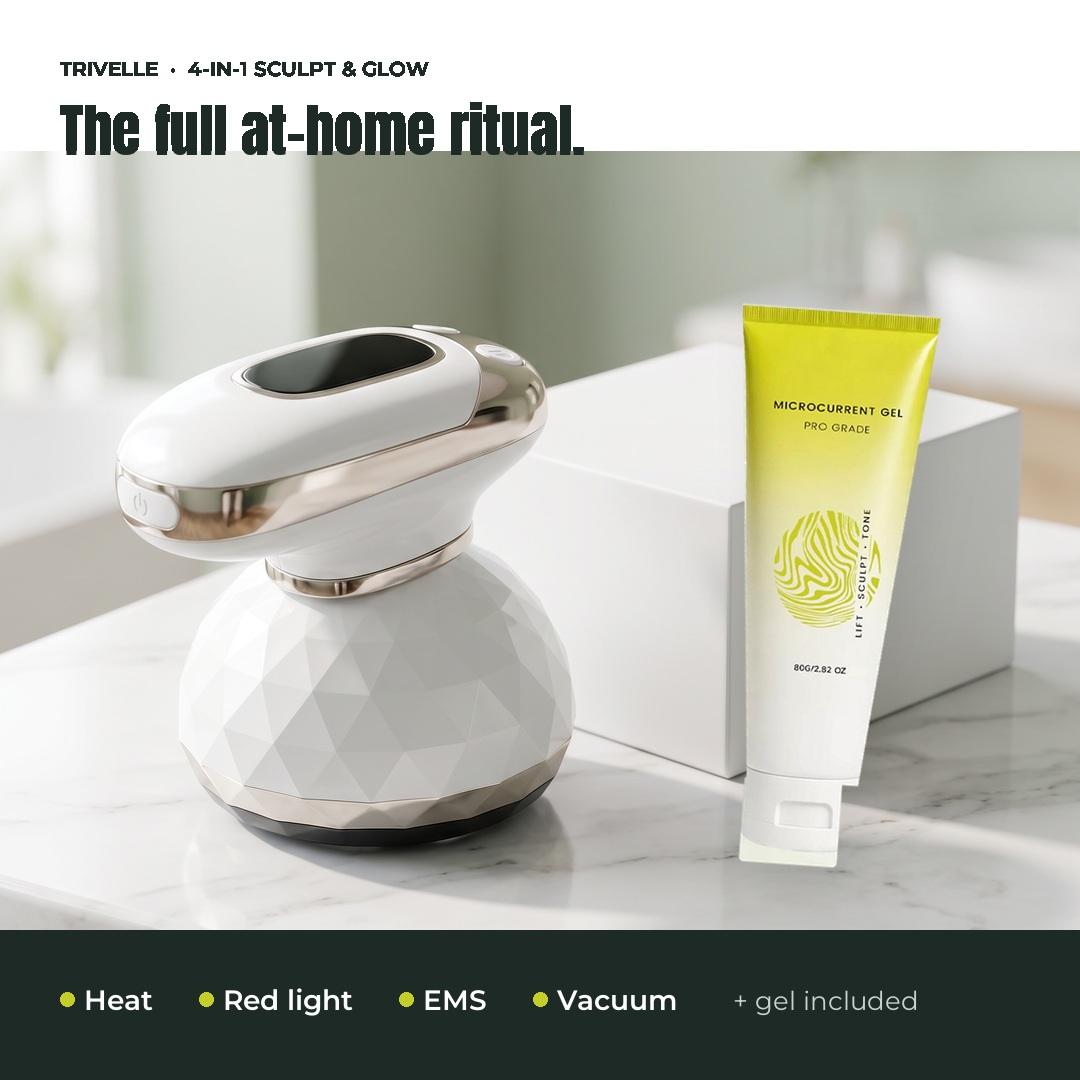
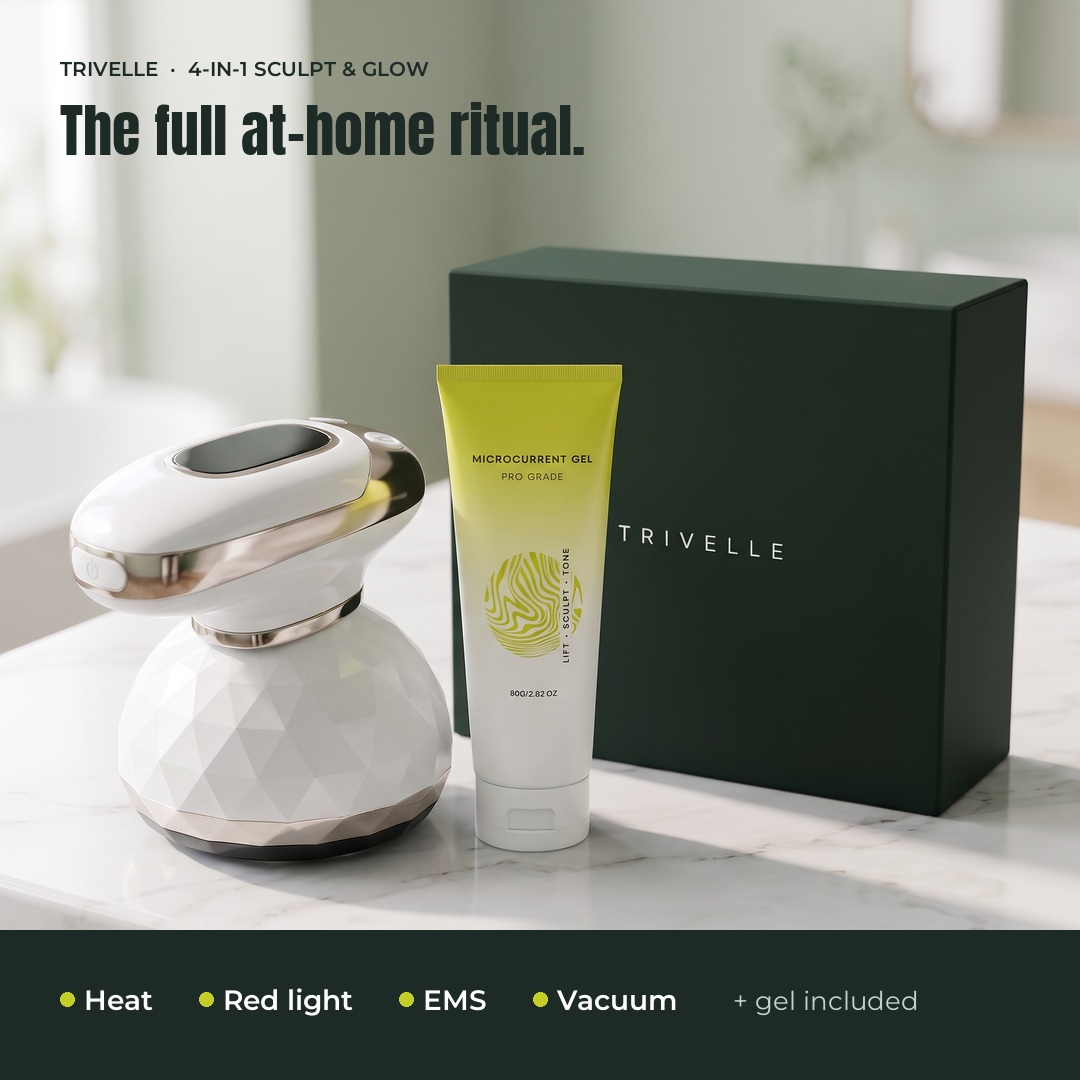
Trivelle: regenerated kit/unbox/gel stills with real tube + green TRIVELLE box (195 cr)

diff --git a/projects/trivelle-beauty/scripts/graphics_v3.py b/projects/trivelle-beauty/scripts/graphics_v3.py
@@ -76,10 +76,8 @@ def save(im, n):
 
 
 # 01 — Kit hero: device on the counter + the gel beside it, clean offer strip
-im = fit(f"{S}/01-hero-v2-pilot.png", N, N, (0.42, 0.5)).convert("RGBA")
-tube(im, 700, 300, 560, angle=-4)
+im = fit(f"{S}/07-kit-hero-gel.png", N, N).convert("RGBA")
 d = ImageDraw.Draw(im)
-d.rectangle((0, 0, N, 150), fill=(255, 255, 255, 0))
 eyebrow(d, (60, 56), "Trivelle  ·  4-in-1 Sculpt & Glow", INK)
 d.text((60, 86), "The full at-home ritual.", font=f("D", 58), fill=INK)
 d.rounded_rectangle((0, 930, N, N), 0, fill=INK)
@@ -131,17 +129,15 @@ for k, (img, h, b) in enumerate(cols):
 d.text((60, 1000), "Start on the lowest level and work up.", font=f("Medium", 24), fill=INK)
 save(im, "03-how-to-use")
 
-# 04 — The gel: hero of the tube, what it does (no ingredient claims we can't verify)
-im = Image.new("RGBA", (N, N), BG + (255,)); d = ImageDraw.Draw(im)
-d.ellipse((520, 170, 1040, 690), fill=(236, 240, 222))
-tube(im, 600, 150, 820, angle=-6)
+# 04 — The gel
+im = fit(f"{S}/09-gel-studio.png", N, N).convert("RGBA"); d = ImageDraw.Draw(im)
 eyebrow(d, (60, 120), "Included in every kit")
 d.text((60, 152), "Pro-grade", font=f("D", 72), fill=INK)
 d.text((60, 236), "microcurrent gel", font=f("D", 72), fill=INK)
 y = 380
 for h, b in (("Glides", "Lets the device move smoothly without dragging on skin."),
              ("Conducts", "Helps the EMS mode reach the skin evenly."),
-             ("Light", "Water-based and clear. Wipes off clean, no sticky feel.")):
+             ("Light", "Clear, light texture. Wipes off clean.")):
     d.rectangle((60, y+8, 66, y+92), fill=LIME)
     d.text((88, y), h, font=f("D", 36), fill=INK)
     para(d, (88, y+50), b, f("Regular", 23), 400, MUTE, 31)
@@ -187,8 +183,7 @@ for i, (r, h) in enumerate(zip(rows, have)):
 save(im, "06-comparison")
 
 # 07 — In the box: flatlay + the real gel tube
-im = fit(f"{S}/03-flatlay.png", N, N).convert("RGBA")
-tube(im, 820, 560, 420, angle=12)
+im = fit(f"{S}/08-unbox-gel.png", N, N).convert("RGBA")
 d = ImageDraw.Draw(im)
 d.rounded_rectangle((50, 690, 540, 1030), 28, fill=WHITE)
 d.text((86, 718), "What's in the box", font=f("D", 42), fill=INK)
